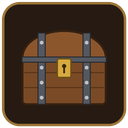
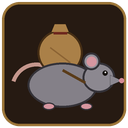
Rename to Pack Rat (pack-rat.lua, slug pack-rat)
The add-on is now Pack Rat: main file pack-rat.lua, folder and store slug
pack-rat, command /packrat, saved data in pack-rat-data.tsv (the test
build's Strongbox-data.tsv is read once if present), and a new icon.

Claude-Session: https://claude.ai/code/session_01WzBhS9Bm5UWhw14uXiGBm1

diff --git a/README.md b/README.md
@@ -1,16 +1,16 @@
-# Strongbox
+# Pack Rat
 
 Creator: Kronic | Version 1.0.0
 
-An inventory organizer for Shroud of the Avatar. Strongbox finds everything you own and shows it by item or by chest: your bags, your bank, every house lot and your other characters, with a total for each place and the containers inside it.
+An inventory organizer for Shroud of the Avatar. Pack Rat finds everything you own and shows it by item or by chest: your bags, your bank, every house lot and your other characters, with a total for each place and the containers inside it.
 
 ## How it finds your things
 
-The game lets add-ons ask how many of an item you own and where, but only by the item's exact name, one item at a time. Strongbox keeps a list of every item name it knows: everything your recipes make or use, everything in your bag, anything you pick up or loot, your Crafters Ledger shopping list, and names you look up yourself. It checks each one in the background, about four a second, and saves what it finds, so the next time you open it your things show straight away.
+The game lets add-ons ask how many of an item you own and where, but only by the item's exact name, one item at a time. Pack Rat keeps a list of every item name it knows: everything your recipes make or use, everything in your bag, anything you pick up or loot, your Crafters Ledger shopping list, and names you look up yourself. It checks each one in the background, about four a second, and saves what it finds, so the next time you open it your things show straight away.
 
-The first scan after installing takes a few minutes (about 8 minutes for 2,000 names). After that, Strongbox only rechecks what has changed or is more than a few hours old, and counts your bag again whenever it changes. Click **Scan everything** to check every name again, or **Pause** to stop for a while.
+The first scan after installing takes a few minutes (about 8 minutes for 2,000 names). After that, Pack Rat only rechecks what has changed or is more than a few hours old, and counts your bag again whenever it changes. Click **Scan everything** to check every name again, or **Pause** to stop for a while.
 
-Something no recipe uses and that you haven't carried since installing, like an old quest item, isn't on the list yet. Type its full name in the search box and click **Look up exact name**; from then on Strongbox keeps track of it.
+Something no recipe uses and that you haven't carried since installing, like an old quest item, isn't on the list yet. Type its full name in the search box and click **Look up exact name**; from then on Pack Rat keeps track of it.
 
 ## Pages
 
@@ -24,8 +24,8 @@ Stand next to a chest and click **Mark** on its line once. After that, **Compass
 
 ## Opening it
 
-Click the strongbox icon, type `/strongbox`, or set a key for it under **Keys** on its row in the **Add-Ons** window.
+Click the Pack Rat icon, type `/packrat`, or set a key for it under **Keys** on its row in the **Add-Ons** window.
 
 ## Installation
 
-Import or extract the complete strongbox folder, including manifest.json and icon.png. Strongbox needs a game client with Lua API 55 or later. Your counts, marks and names are saved in Strongbox-data.tsv in the main Lua folder, so updating keeps them.
+Import or extract the complete pack-rat folder, including manifest.json and icon.png. Pack Rat needs a game client with Lua API 55 or later. Your counts, marks and names are saved in pack-rat-data.tsv in the main Lua folder, so updating keeps them.

diff --git a/RELEASE-NOTES.md b/RELEASE-NOTES.md
@@ -1,4 +1,4 @@
-# Strongbox 1.0.0
+# Pack Rat 1.0.0
 
 First release: know where everything is.
 
